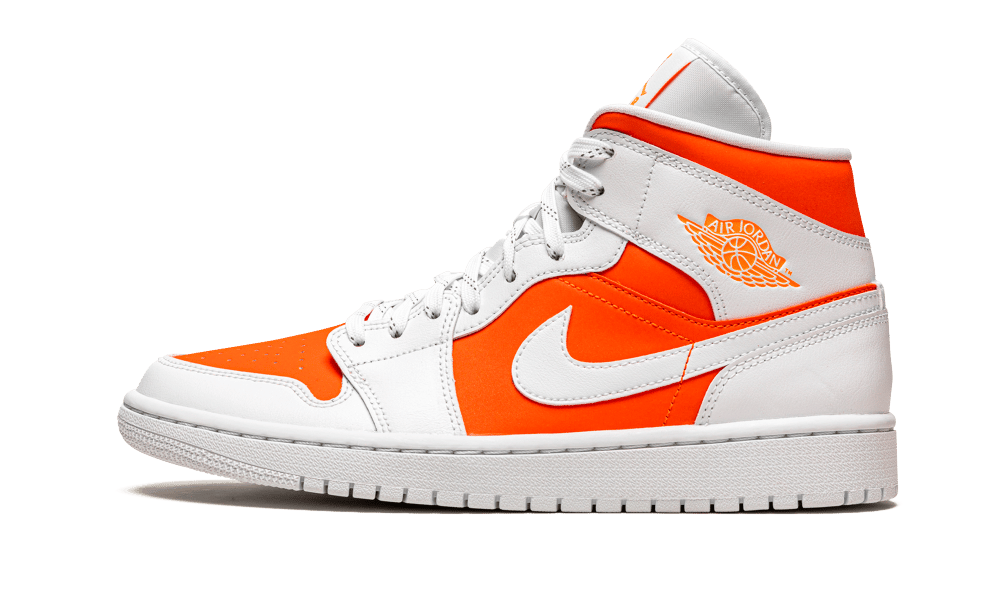
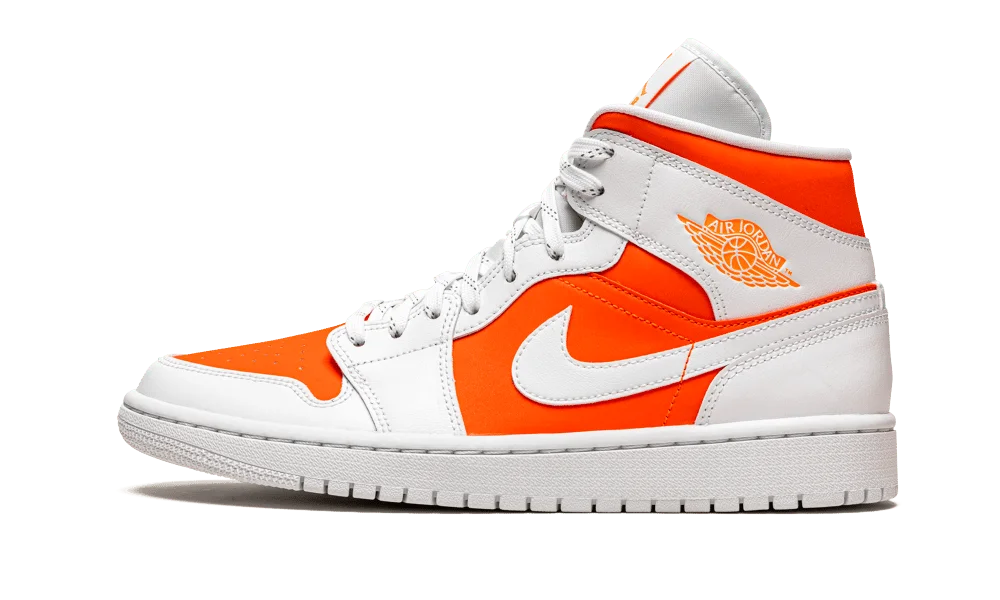
Converted files

diff --git a/index.html b/index.html
@@ -62,33 +62,33 @@
 
         <div class="shoes">
           <div class="shoe">
-            <img src="img/1.png" alt="Air Jordan 1" width="176" height="106" />
+            <img src="img/1.webp" alt="Air Jordan 1" width="176" height="106" />
           </div>
           <div class="shoe">
-            <img src="img/2.png" alt="Air Jordan 2" width="176" height="106" />
+            <img src="img/2.webp" alt="Air Jordan 2" width="176" height="106" />
           </div>
           <div class="shoe">
-            <img src="img/3.png" alt="Air Jordan 2" width="176" height="106" />
-          </div>
-
-          <div class="shoe">
-            <img src="img/4.png" alt="Air Jordan 3" width="176" height="106" />
+            <img src="img/3.webp" alt="Air Jordan 2" width="176" height="106" />
           </div>
 
           <div class="shoe">
-            <img src="img/5.png" alt="Air Jordan 5" width="176" height="106" />
+            <img src="img/4.webp" alt="Air Jordan 3" width="176" height="106" />
           </div>
 
           <div class="shoe">
-            <img src="img/6.png" alt="Air Jordan 6" width="176" height="106" />
+            <img src="img/5.webp" alt="Air Jordan 5" width="176" height="106" />
           </div>
 
           <div class="shoe">
-            <img src="img/7.png" alt="Air Jordan 7" width="176" height="106" />
+            <img src="img/6.webp" alt="Air Jordan 6" width="176" height="106" />
           </div>
 
           <div class="shoe">
-            <img src="img/8.png" alt="Air Jordan 8" width="176" height="106" />
+            <img src="img/7.webp" alt="Air Jordan 7" width="176" height="106" />
+          </div>
+
+          <div class="shoe">
+            <img src="img/8.webp" alt="Air Jordan 8" width="176" height="106" />
           </div>
         </div>
       </section>
@@ -99,3 +99,4 @@
     </footer>
   </body>
 </html>
+<!-- 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 -->

diff --git a/styles/style.css b/styles/style.css
@@ -45,7 +45,7 @@ main #home {
 }
 
 main #home .image {
-  background-image: url("../img/wallpaper.jpg");
+  background-image: url("../img/wallpaper.webp");
   background-position: center left;
   background-attachment: fixed;
   background-size: cover;
